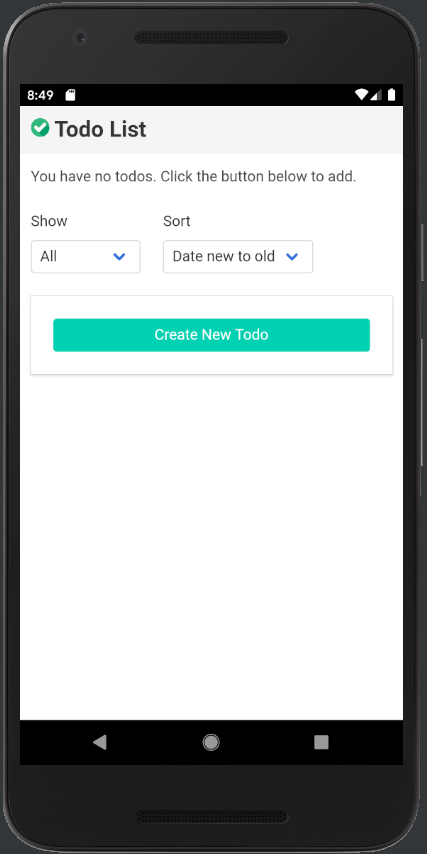
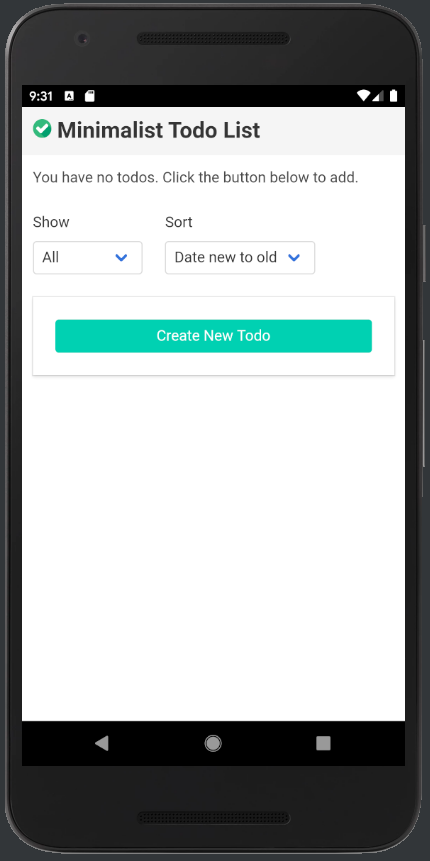
Change title

diff --git a/bundle.js b/bundle.js
@@ -41397,7 +41397,7 @@ function AppPage(props) {
         _react2.default.createElement(
           'span',
           { className: 'title is-4' },
-          ' Todo List'
+          ' Minimalist Todo List'
         )
       )
     ),
@@ -42605,6 +42605,11 @@ var TodoStore = function (_ReduceStore) {
   }
 
   _createClass(TodoStore, [{
+    key: '_getMaxTodos',
+    value: function _getMaxTodos() {
+      return 50;
+    }
+  }, {
     key: 'getInitialState',
     value: function getInitialState() {
       return _TodoPersistence2.default.getSavedTodos();

diff --git a/src/components/pages/AppPage.js b/src/components/pages/AppPage.js
@@ -10,7 +10,7 @@ function AppPage(props) {
       <div className="columns is-mobile has-background-light">
         <div className="column">
           <img src="images/checked.svg" width="20" />
-          <span className="title is-4"> Todo List</span>
+          <span className="title is-4"> Minimalist Todo List</span>
         </div>
       </div>
       <Switch>
